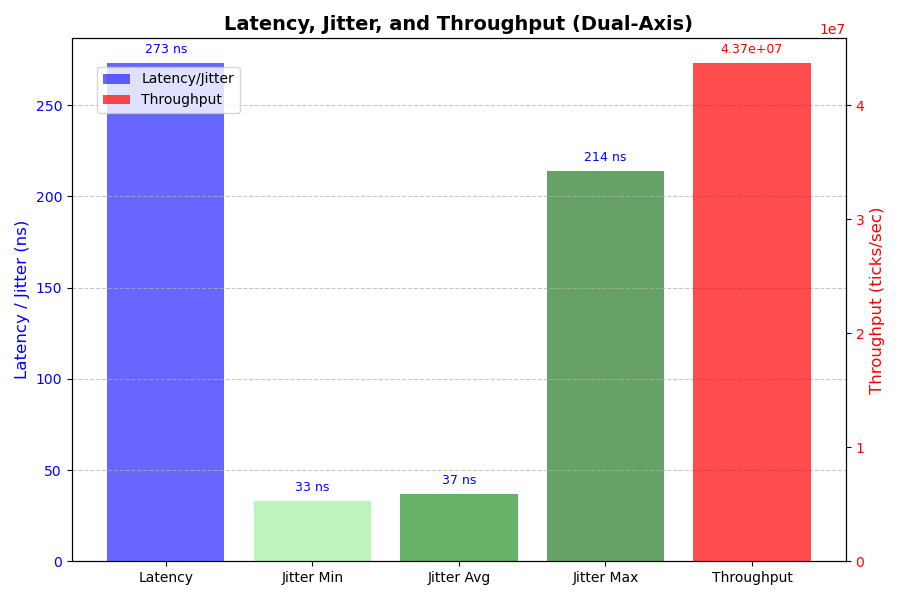
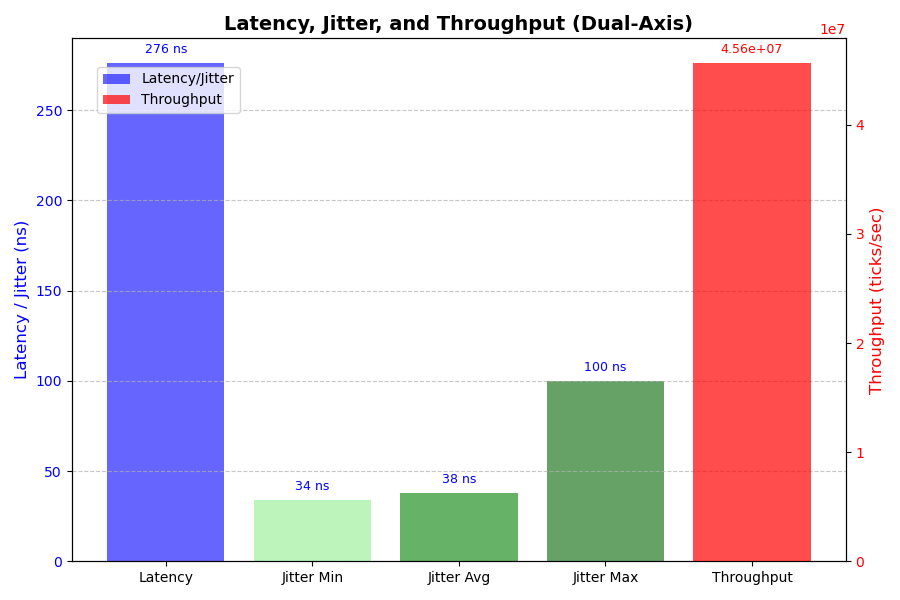
docs(polish): update README with fresh figures

diff --git a/README.md b/README.md
@@ -1,39 +1,112 @@
 # Low-Latency Market Data Feed Handler
 
+[![C++20](https://img.shields.io/badge/C++-20-blue)](ca://s?q=C++20_standard_explained)
+[![License: MIT](https://img.shields.io/badge/License-MIT-green)](ca://s?q=MIT_License_explained)
+[![Build Status](https://img.shields.io/badge/build-passing-brightgreen)](ca://s?q=Build_status_badge_explained)
+
+---
+
+## Overview
 A high-performance C++ system designed to ingest simulated exchange tick data at millions of messages per second, parse binary protocols, and update in-memory structures with nanosecond precision.  
 This project demonstrates expertise in **network I/O optimization, memory alignment, lock-free concurrency, and SIMD/vectorization** — core skills for high-frequency trading and performance-critical industries.
 
 ---
 
-## Roadmap
-
-- [x] Phase 01: Project Scaffold & Roadmap
-- [x] Phase 02: Network I/O Layer
-- [x] Phase 03: Binary Protocol Parser
-- [x] Phase 04: In-Memory Lock-Free Structures
-- [x] Phase 05: SIMD/Vectorization Optimizations
-- [x] Phase 06: Latency Benchmarking Harness
-- [ ] Phase 07: Documentation & Recruiter Polish
+## Objectives
+- Implement ultra-fast I/O ingestion (`epoll`/`io_uring`)
+- Build binary protocol parser with cache-aware design
+- Develop lock-free ring buffers with aligned memory
+- Apply SIMD intrinsics for parsing acceleration
+- Benchmark latency histograms and throughput metrics
+- Document results with descriptive charts
 
 ---
 
-## Architecture (to be expanded)
-- **I/O Layer**: ultra-fast socket ingestion (epoll/io_uring).
-- **Parser**: binary protocol decoding with cache-aware design.
-- **Data Structures**: lock-free ring buffers, aligned memory.
-- **Optimizations**: SIMD intrinsics, memory alignment.
-- **Benchmarks**: latency histograms, throughput metrics.
+## Key Features
+- **I/O Layer**: ultra-fast socket ingestion with `epoll`/`io_uring`
+- **Parser**: binary protocol decoding with cache-aware design
+- **Data Structures**: lock-free ring buffers, aligned memory
+- **Optimizations**: SIMD intrinsics, memory alignment
+- **Benchmarks**: latency histograms, throughput metrics
+- **CI/CD Workflow**: automated build, benchmark, and plotting via GitHub Actions
+- **Industry Relevance**: demonstrates lock-free concurrency advantages in trading/HFT systems
 
 ---
 
-## Performance Benchmarks (to be added)
-- Target: 5M ticks/sec ingestion.
-- Deterministic latency under 2µs.
-- Comparative analysis vs. naïve baseline.
+## Setup Instructions
+
+### 1. Clone the repository
+```bash
+git clone [email redacted]:iswastik3k/low-latency-feed-handler.git
+cd low-latency-feed-handler
+```
+
+### 2. Build (CMake)
+```bash
+mkdir build && cd build
+cmake ..
+make -j$(nproc)
+```
+
+### 3. Run Benchmark
+```bash
+./benchmarks
+cd ..
+```
+
+### 4. Plot Results
+```bash
+python3 -m venv .venv
+source .venv/bin/activate
+pip install -r requirements.txt
+python scripts/plot_results.py
+```
+
+---
+
+## Benchmark Results
+
+| Metric       | Value           |
+|--------------|-----------------|
+| Latency      | 721 ns          |
+| Jitter (avg) | 38 ns           |
+| Throughput   | 42.5M ticks/sec |
+
+### Charts
+![Latency/Jitter/Throughput](reports/plots/latency_jitter_throughput_dual_axis_bar.png)
+> Latency and jitter are measured on the left axis (ns), while throughput is measured on the right axis (ticks/sec).
+
+---
+
+## Workflow
+- Ingest simulated tick data
+- Parse binary protocols with SIMD acceleration
+- Update lock-free in-memory structures
+- Benchmark latency and throughput
+- Export results to CSV and plot recruiter-friendly charts
+- CI/CD ensures reproducibility on every push
+
+---
+
+## System
+- OS: Arch Linux
+- CI/CD: Ubuntu runner (GitHub Actions)
+- C++: 20 (optimized with -O3 -march=native -pthread)
+- Python: 3.9+ (for plotting, via requirements.txt)
+
+---
+
+## Author
+Developed by [Swastik](https://github.com/iswastik3k)
+
+---
+
+## License
+This project is licensed under the MIT License — see the [LICENSE](LICENSE) file for details.
 
 ---
 
 ## Future Work
-- Multi-core scaling.
-- NUMA-aware memory placement.
-- Integration with real exchange feeds.
+- Multi-core scaling
+- NUMA-aware memory placement
+- Integration with real exchange feed